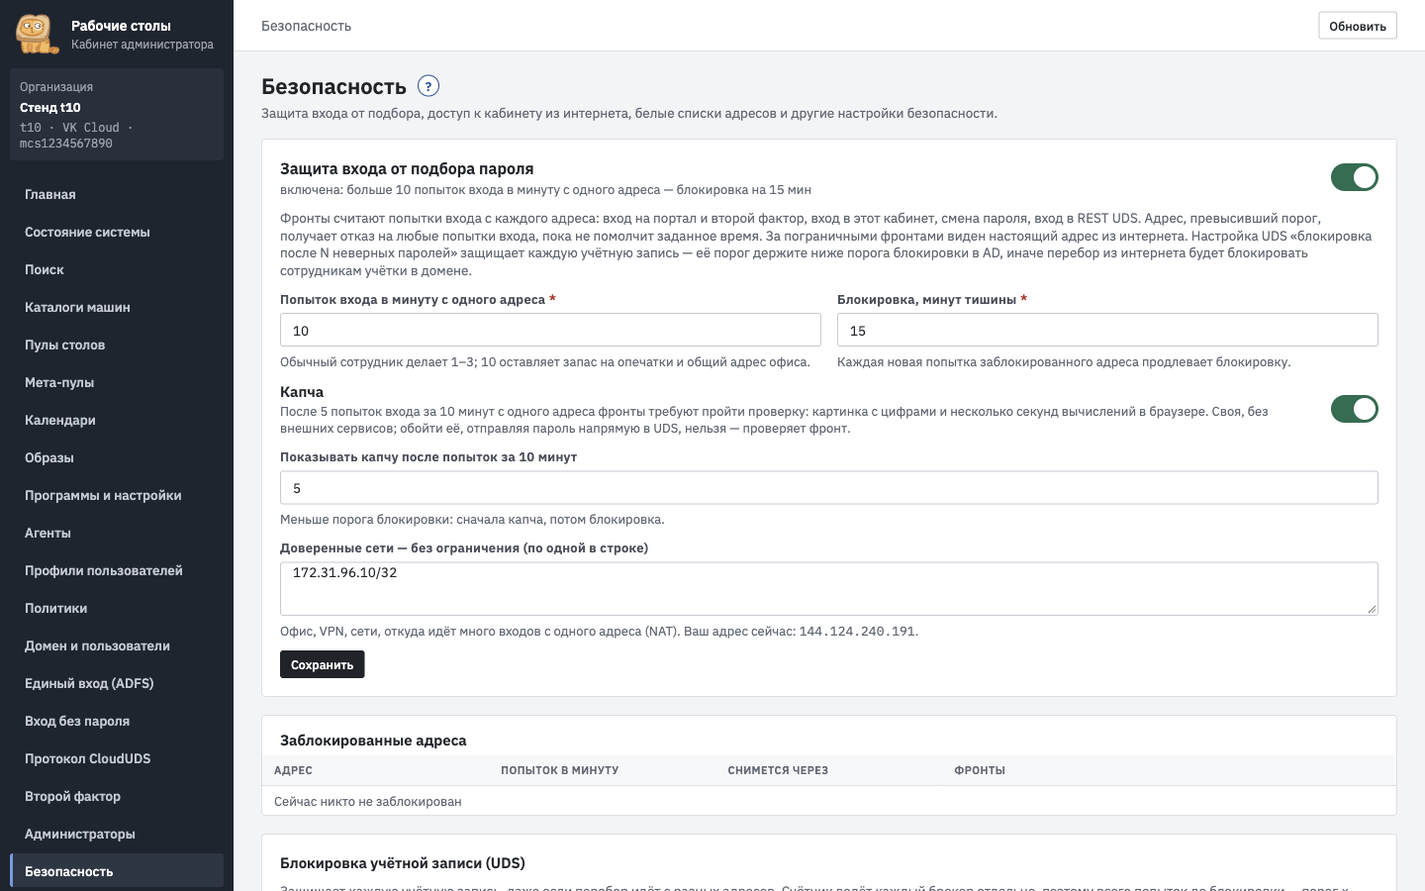
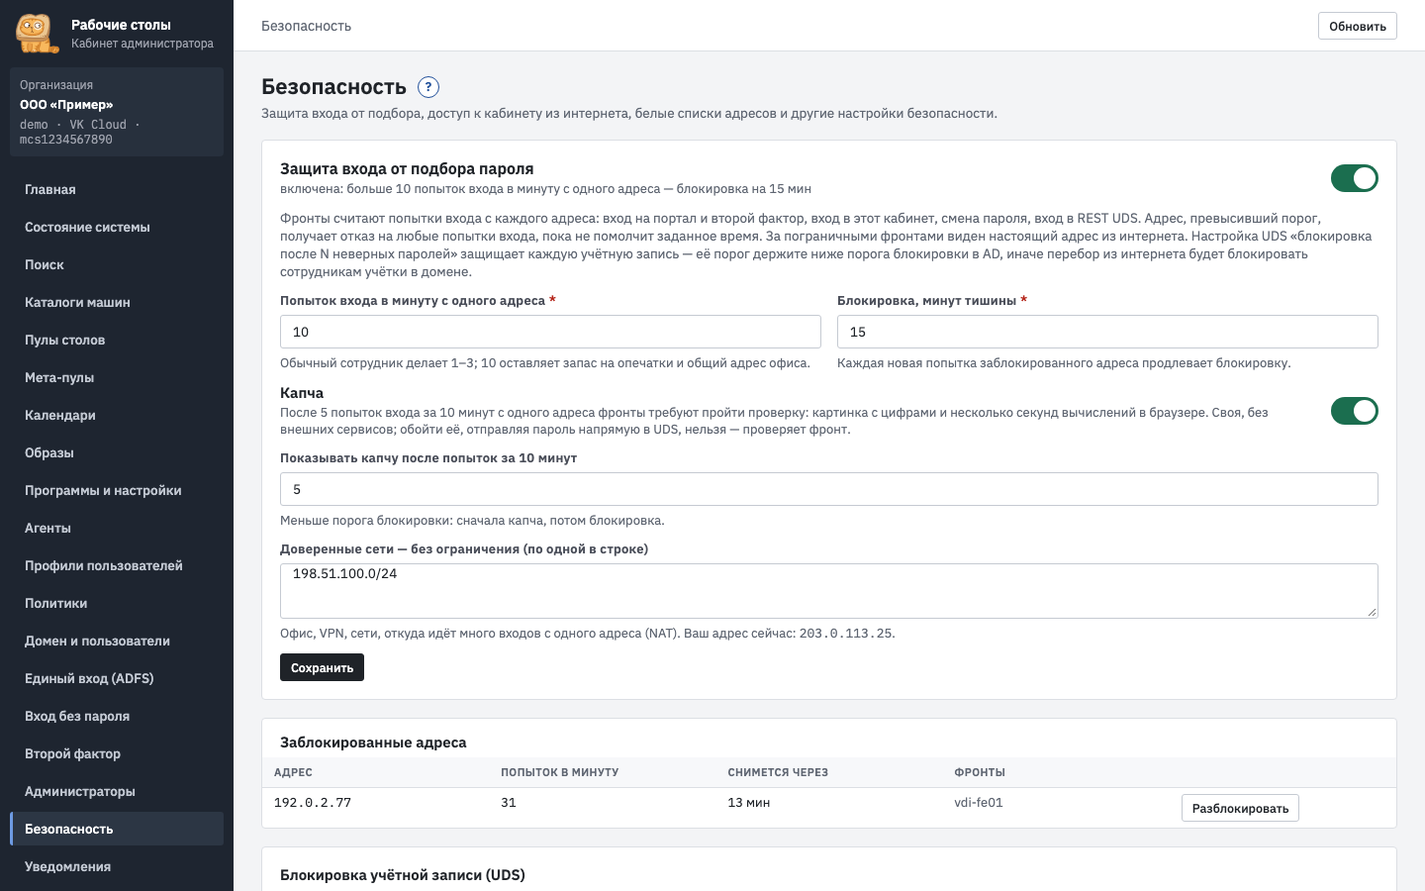
docs from the cabinet help (321ab66)

diff --git a/docs/login-protect.md b/docs/login-protect.md
@@ -1,0 +1,107 @@
+# Защита входа и капча: как устроено и как защищено
+
+*Как устроено*
+
+> Слои защиты от подбора пароля: лимит и капча на фронтах, блокировка учётных записей в UDS и AD, второй фактор; как фронт видит настоящий адрес и почему капчу нельзя обойти.
+
+## Что защищаем
+
+- Подбор пароля и перебор учётных записей через вход на портал, второй фактор, вход в кабинет, смену пароля сотрудником и вход в REST UDS. Именно эти адреса доступны из интернета без входа.
+- Защита — в несколько слоёв: одного недостаточно. Фронты ограничивают **адрес** клиента, UDS и AD — **учётную запись**, второй фактор не даёт войти с подобранным паролем, белые списки и закрытие кабинета убирают поверхность атаки целиком.
+- Настройки — **«Безопасность»**.
+
+## Слои
+
+![схема](img/login-protect-1.svg)
+
+**Схема текстом:**
+
+- **Фронты (HAProxy)** считают по адресу клиента: белые списки и закрытый из интернета кабинет (403), лимит попыток в минуту (429 до паузы), капча после N попыток за 10 минут (без пропуска — 403).
+- **Портал и кабинет** — по человеку: второй фактор; уведомление о неверных паролях с прошлого входа.
+- **UDS** — по учётной записи: после N неверных паролей учётка временно не входит; порог ниже, чем в домене.
+- **Active Directory** — политика блокировки домена, последний рубеж.
+
+| Слой | Что считает | Что делает | Где настраивается |
+|----|----|----|----|
+| Фронты: лимит | попытки входа с одного адреса за минуту | выше порога — адрес получает отказ (429) на любые попытки входа, пока не помолчит заданное время; каждая новая попытка продлевает блокировку | «Безопасность» → «Защита входа»: попыток в минуту (10), минут тишины (15) |
+| Фронты: капча | попытки входа с одного адреса за 10 минут | после порога вход принимается только с пропуском за решённую капчу | «Капча»: после скольких попыток (5) |
+| UDS | неверные пароли одной учётной записи | учётная запись временно не входит в UDS | «Безопасность» → блокировка в UDS |
+| Active Directory | неверные пароли учётной записи во всём домене | учётная запись блокируется в домене (и для почты, и для остального) | политика домена; кабинет показывает её значения |
+| Второй фактор | — | подобранного пароля мало: нужен код, ключ доступа или подтверждение | «Второй фактор»; для администраторов — «Администраторы» |
+| Белые списки, кабинет из интернета | — | кабинет и портал недоступны с посторонних адресов вовсе | «Безопасность» → «Белые списки адресов», «Доступ к кабинету из интернета» |
+
+## Как считает фронт
+
+![схема](img/login-protect-2.svg)
+
+**Схема текстом:**
+
+1.  **Запрос на вход** — POST на адреса входа: /uds/page/login и /uds/page/mfa (портал), /admin/api/login и /admin/api/login/mfa (кабинет), /my/api/password, /uds/rest/auth/login
+2.  **Настоящий адрес клиента** — за пограничными фронтами — по протоколу PROXY; заголовку X-Forwarded-For от клиента фронт не верит
+3.  **Доверенная сеть?** — офис, VPN, узлы самой установки — не считаются и капчу не получают
+4.  **Счёт** — таблица фронта: попыток в минуту и за 10 минут на адрес
+5.  **Выше лимита** — отказ 429 «Слишком много попыток…»; блокировка держится, пока адрес не помолчит
+6.  **Выше порога капчи** — без пропуска — ответ 403 «Подтвердите, что вы не робот»; страница входа показывает капчу
+
+- Решение принимает сам фронт (HAProxy) до того, как запрос дойдёт до портала, кабинета или UDS. Поэтому обойти защиту, отправляя пароль прямо в `/uds/page/login` или REST UDS мимо нашей страницы, нельзя.
+- Агент фронта раз в минуту берёт у кабинета настройки (лимиты, доверенные сети, ключ капчи, адреса для разблокировки) и отдаёт список заблокированных адресов. «Разблокировать» в кабинете снимает блокировку на всех фронтах в течение минуты.
+- Новый заблокированный адрес — событие аудита `security.bruteforce` и уведомление в канал «Безопасность».
+
+## Капча
+
+![схема](img/login-protect-3.svg)
+
+**Схема текстом:**
+
+1.  Браузер отправляет вход; на шестой попытке за 10 минут фронт отвечает 403 «Подтвердите, что вы не робот».
+2.  Страница входа берёт у портала задание: картинку из 5 цифр, соль и подписанный ключом капчи хэш ответа со сроком 5 минут.
+3.  Пока человек вводит цифры, браузер ищет число, при котором SHA-256 начинается с 18 нулевых бит.
+4.  Портал проверяет подпись, срок, работу и цифры и ставит cookie vdicap = срок.HMAC(ключ, «срок\|адрес клиента») на 15 минут.
+5.  Повторный вход идёт с cookie; HAProxy сам проверяет подпись от адреса этого клиента и срок, и только тогда пропускает запрос к UDS и кабинету.
+
+- **Своя, без внешних сервисов:** ничего не уходит в Google или Яндекс, работает в закрытом контуре.
+- **Картинка из пяти цифр** нарисована искажёнными штрихами (контуры, а не текст — из страницы её не прочитать), с шумовыми линиями и точками; у каждой цифры свой наклон и размер.
+- **Проверка браузера:** пока человек читает цифры, браузер подбирает число, при котором SHA-256 начинается с 18 нулевых бит (около секунды-двух). Человеку незаметно, а массовое решение стоит процессорного времени.
+- **Без состояния на сервере:** правильный ответ (его хэш с ключом), соль и срок (5 минут) приходят в браузер подписанными ключом капчи. Подменить ответ или продлить срок нельзя, а фронтам и порталу не нужно хранить выданные задания.
+- **Пропуск** — cookie `vdicap`: срок (15 минут) и подпись HMAC-SHA256 ключом капчи от «срок \| адрес клиента». Подпись и срок проверяет сам фронт. Пропуск, унесённый на другой адрес, не действует; после срока нужна новая капча.
+- **Ключ капчи** — общий для фронтов и портала, создаётся при первом использовании, на фронте лежит в файле только для root. Мастер-ключом кабинета он не зашифрован: пропуск подписывает портал, у которого мастер-ключа нет; ключ защищает только капчу.
+
+## Почему фронт видит настоящий адрес
+
+- Заголовок `X-Forwarded-For` от клиента фронт удаляет; оставляет его только от узлов кабинета (портал входит в UDS от имени сотрудника и передаёт его адрес).
+- Пограничные фронты (DMZ) передают соединение по протоколу PROXY на отдельный порт внутренних фронтов, и этот порт принимает подключения только от зарегистрированных пограничных фронтов.
+- Брокер и кабинет доверяют адресу только от своих фронтов. Тот же адрес видят журнал входов, аудит и привязка токенов туннелей.
+
+## Свои узлы и доверенные сети
+
+- Узлы кабинета не ограничиваются никогда: через фронты они передают в UDS входы сотрудников с портала. Капча для них закрыла бы вход всем.
+- Доверенные сети (офис, VPN, NAT, откуда много сотрудников выходят с одного адреса) — без лимита и без капчи. Не вносите туда интернет целиком: защита по адресу для них выключена.
+
+## Как согласовать пороги
+
+- Капча раньше блокировки: порог капчи (5 за 10 минут) ниже лимита (10 в минуту). Сначала человеку показывают проверку, потом адрес блокируют.
+- Блокировка учётной записи в UDS — раньше, чем в AD. Иначе перебор паролей из интернета будет блокировать сотрудникам учётные записи в домене: почта и компьютеры перестанут пускать. Каждый брокер считает отдельно, поэтому действующий порог UDS — порог × число брокеров. Кабинет показывает его рядом с политикой домена.
+- Обычный сотрудник делает 1–3 попытки; общий адрес офиса — в доверенные сети.
+
+## Что видит сотрудник и администратор
+
+- Сотрудник: после нескольких неудачных попыток — капча на странице входа; при переборе — «Слишком много попыток входа с вашего адреса», блокировка уйдёт сама после паузы.
+- Администратор: «Безопасность» → заблокированные адреса и «Разблокировать»; аудит — неудачные входы с адресами; уведомление «Подбор пароля: заблокировано адресов N».
+- При следующем удачном входе на портал или в кабинет человек видит: «С прошлого входа пароль к вашей учётной записи вводили неверно: N» — с временем и адресом последней попытки. Если это был не он — повод сменить пароль.
+
+## Ограничения
+
+- Счёт ведёт каждый фронт сам. В паре работает фронт с VIP; после переезда VIP счёт начинается заново.
+- Распределённый перебор с тысяч адресов почти не упирается в лимит по адресу — его держат блокировка учётных записей в UDS и AD и второй фактор. Поэтому второй фактор для доступа из интернета обязателен.
+- Капча — защита от автоматического перебора, не от человека, вводящего пароли руками.
+
+[![Безопасность: защита входа, капча, доверенные сети, заблокированные адреса](img/ui-security.png)](img/ui-security.png)
+
+Безопасность: защита входа, капча, доверенные сети, заблокированные адреса
+
+[![Капча на странице входа: цифры штрихами, проверка браузера идёт незаметно](img/ui-captcha.png)](img/ui-captcha.png)
+
+Капча на странице входа: цифры штрихами, проверка браузера идёт незаметно
+
+---
+[Оглавление](README.md)

diff --git a/docs/README.md b/docs/README.md
@@ -55,6 +55,7 @@
 - [Состав системы](system.md) — Что взято из OpenUDS и других проектов, что написано нами, где что работает и как ставится и обновляется.
 - [Схемы архитектуры](topology.md) — Схемы размещения по профилям инсталляции: какие сети нужны, что в них стоит и как идёт картинка стола.
 - [Агенты на рабочих столах](agents.md) — Какие агенты работают на столах, что они делают и как их проверить.
+- [Защита входа и капча: как устроено и как защищено](login-protect.md) — Слои защиты от подбора пароля: лимит и капча на фронтах, блокировка учётных записей в UDS и AD, второй фактор; как фронт видит настоящий адрес и почему капчу нельзя обойти.
 - [Наш кабинет и штатная админка UDS](compare.md) — Чем штатные интерфейсы UDS отличаются от наших, что где делать и чего у нас пока нет.
 - [Столы без видеокарты](nogpu.md) — Без vGPU всё рисует и сжимает процессор: офису хватает, 3D и CAD — нет. В общем облаке скорость зависит от соседей по хосту.
 

diff --git a/docs/access-limit.md b/docs/access-limit.md
@@ -82,6 +82,8 @@ sudo systemctl start vdi-certsync.timer
 >
 > Правила белых списков появились в роли front в октябре 2026 года. Перезапустите роль front в установщике, тогда фронт начнёт применять списки.
 
+Как устроены лимит попыток, блокировка адресов и капча — [«Защита входа и капча: как устроено и как защищено»](login-protect.md).
+
 [![Безопасность: доступ к кабинету и порталу](img/ui-security.png)](img/ui-security.png)
 
 Безопасность: доступ к кабинету и порталу
